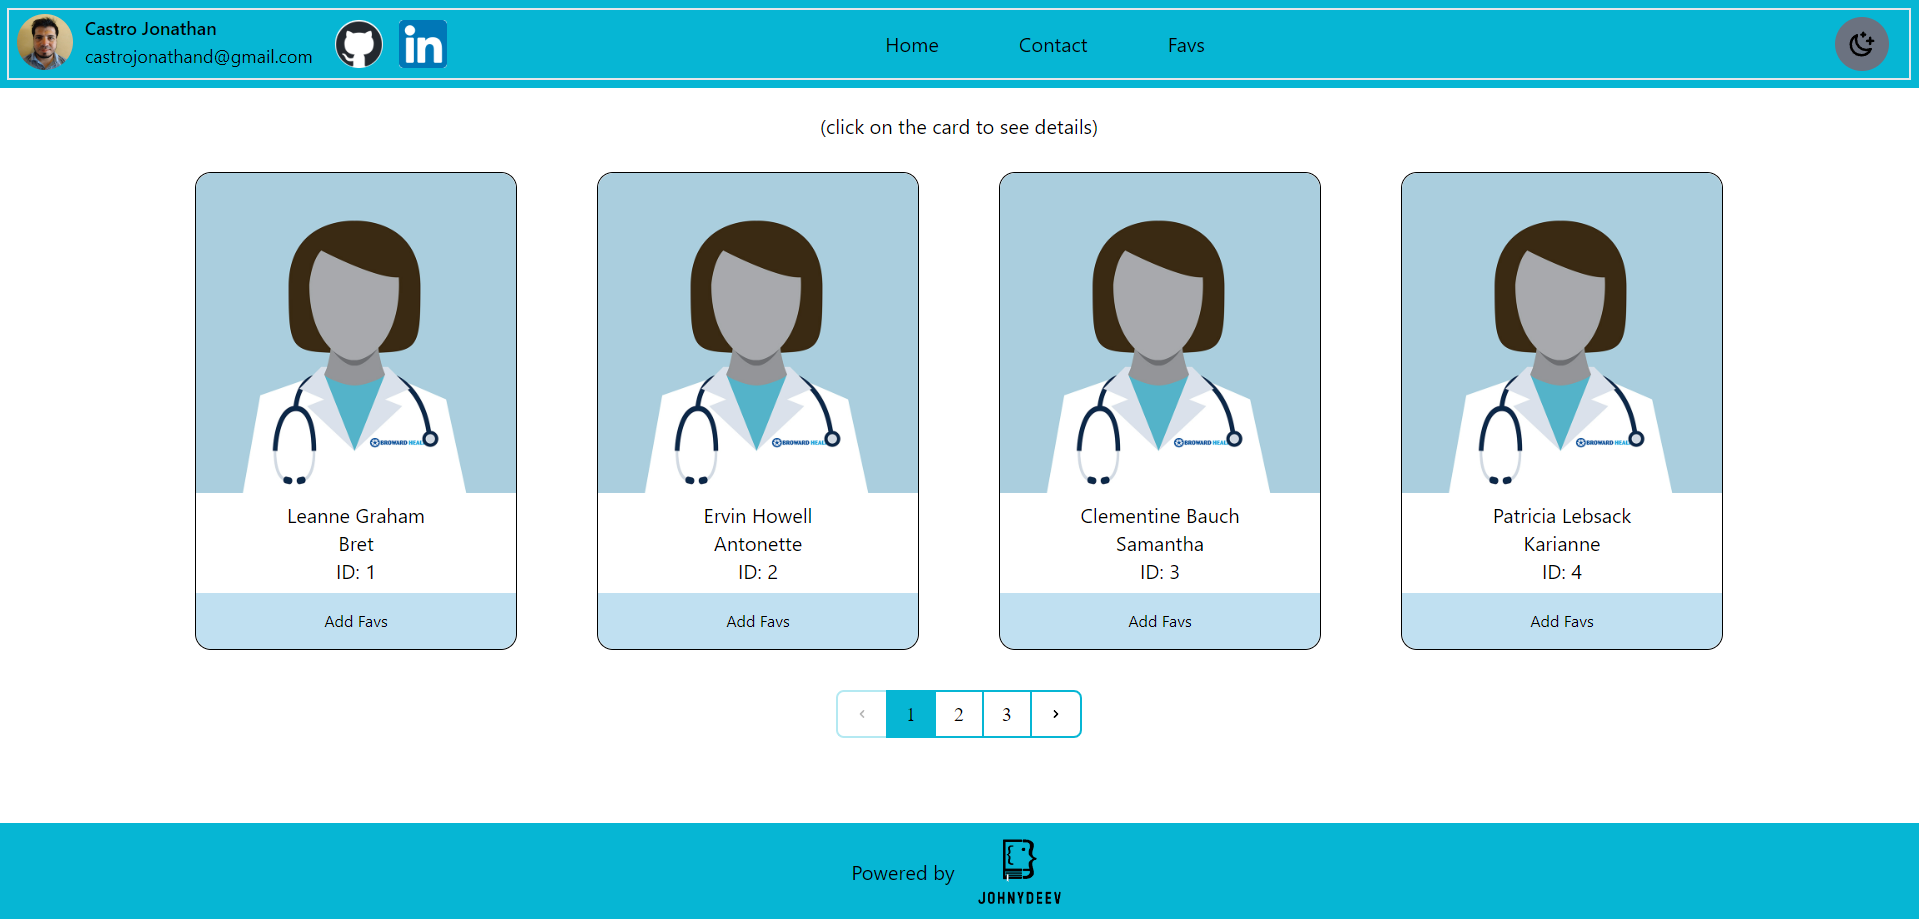
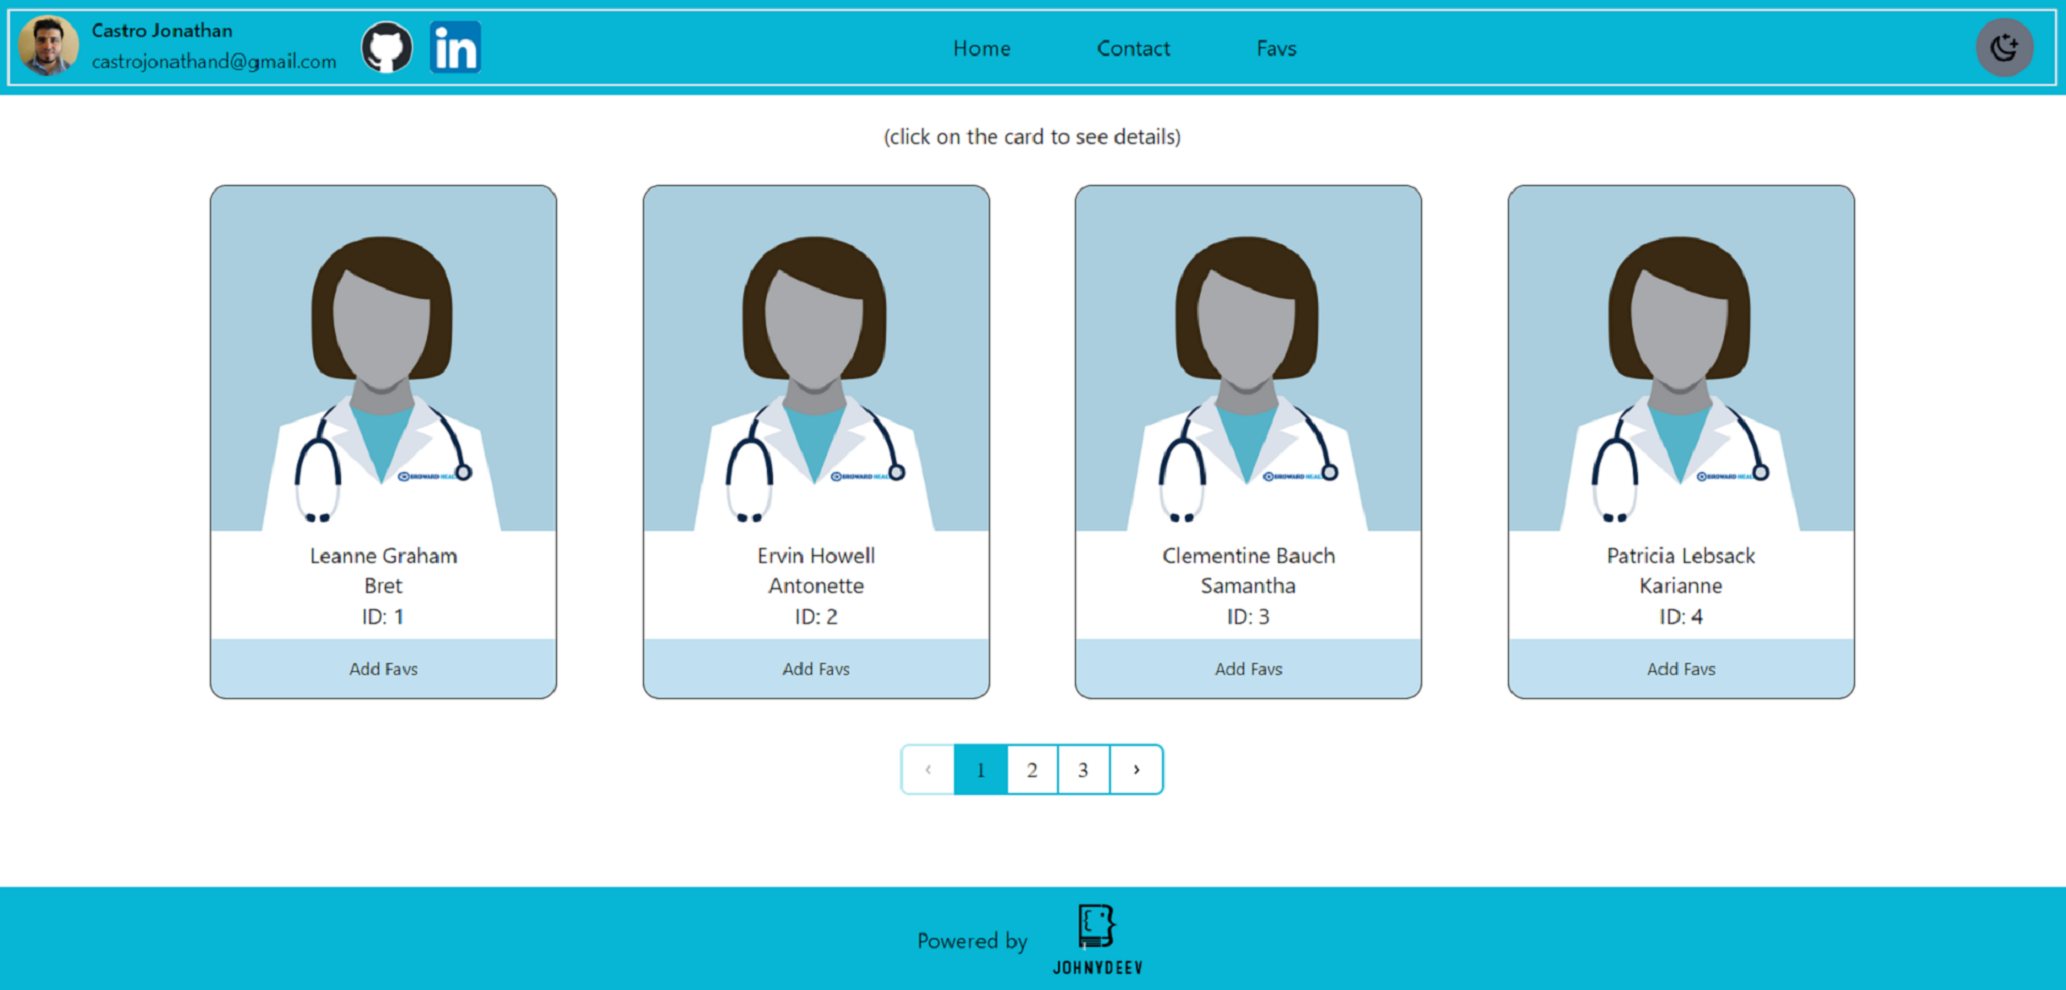
fix image proyect

diff --git a/src/components/Proyects.jsx b/src/components/Proyects.jsx
@@ -14,7 +14,7 @@ const Proyects = () => {
         <div className="container px-5 pt-8 mx-auto">
           <div className="flex flex-wrap -mx-4 -mb-10 text-center">
             <div className="sm:w-1/2 mb-10 px-4">
-              <div className="border-2 transition inline-block hover:scale-110 h-auto">
+              <div className="border-2 transition inline-block hover:scale-[1.07] h-auto">
                 <picture>
                   <Image
                     width={600}
@@ -55,10 +55,10 @@ const Proyects = () => {
               </div>
             </div>
             <div className="sm:w-1/2 mb-10 px-4">
-              <div className="border-2 transition inline-block hover:scale-110 h-auto">
+              <div className="border-2 transition inline-block scale-[1.03] mt-1 hover:scale-110 h-auto">
                 <picture>
                   <Image
-                    className="object-cover object-center w-full "
+                    className="object-cover object-center w-full"
                     width={600}
                     height={213}
                     alt="Project Dentist Card image"
@@ -82,7 +82,7 @@ const Proyects = () => {
                     rel="noopener noreferrer"
                   >
                     <Image
-                      className="rounded-full w-15 h-15 dark:bg-gray-900 dark:border-slate-400"
+                      className="rounded-full w-15 h-15 dark:bg-gray-900 dark:border-slate-400 "
                       width={100}
                       height={100}
                       src={
